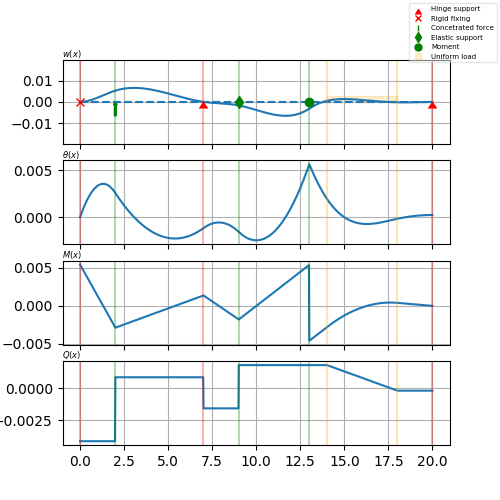
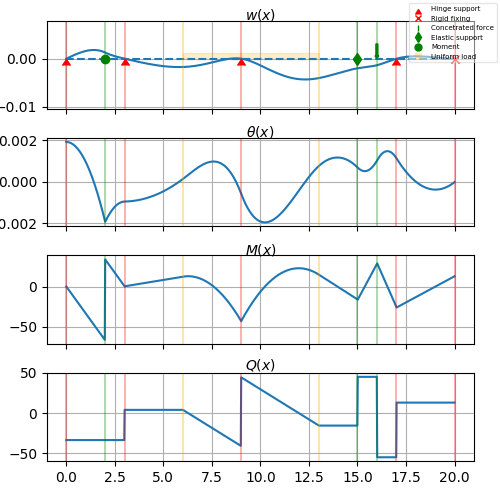
fix example, fix moments, fix graphics

Changed region(s): [[0.0, 0.0, 0.96, 0.99], [0.42, 0.03, 0.45, 0.06], [0.3, 0.03, 0.33, 0.06]]

diff --git a/scripts/graphics.py b/scripts/graphics.py
@@ -46,6 +46,7 @@ def show(balk_size, segment_length, E, J, terms, output_dir):
             open(os.path.join(output_dir, "out3.txt"), "r") as f3, \
             open(os.path.join(output_dir, "out4.txt"), "r") as f4:
         fig, axe = plt.subplots(4, 1, sharex=True, figsize=(5, 5))
+        fig.tight_layout()
         y = []
         for num in f1:
             y.append(float(num))
@@ -55,28 +56,28 @@ def show(balk_size, segment_length, E, J, terms, output_dir):
         axe[0].plot(np.linspace(0, balk_size, len(y)),
                     np.zeros(shape=len(y)), color='C0', linestyle="--")
         make_markers(axe[0], terms, y, balk_size)
-        axe[0].set_title(r"$w(x)$", size=6, loc="left", pad=2)
+        axe[0].set_title(r"$w(x)$", size=10, loc="center", pad=1)
         axe[0].grid()
 
         y = []
         for num in f2:
             y.append(float(num))
         axe[1].plot(np.linspace(0, balk_size, len(y)), np.array(y))
-        axe[1].set_title(r"$\theta(x)$", size=6, loc="left", pad=2)
+        axe[1].set_title(r"$\theta(x)$", size=10, loc="center", pad=1)
         axe[1].grid()
 
         y = []
         for num in f3:
             y.append(float(num))
         axe[2].plot(np.linspace(0, balk_size, len(y)), np.array(y))
-        axe[2].set_title(r"$M(x)$", size=6, loc="left", pad=2)
+        axe[2].set_title(r"$M(x)$", size=10, loc="center", pad=1)
         axe[2].grid()
 
         y = []
         for num in f4:
             y.append(float(num))
         axe[3].plot(np.linspace(0, balk_size, len(y)), np.array(y))
-        axe[3].set_title(r"$Q(x)$", size=6, loc="left", pad=2)
+        axe[3].set_title(r"$Q(x)$", size=10, loc="center", pad=1)
         axe[3].grid()
 
         make_vertical_lines(axe, terms, balk_size)

diff --git a/src/balk.cpp b/src/balk.cpp
@@ -133,7 +133,11 @@ void Balk::save_result(const std::string &folder_name, size_t num_of_points)
                     res += el->calculate(i * balk_size * segment_length / num_of_points, num) * x[ind++];
                 }
             }
-            file << res / (E * J) << std::endl;
+            if (num <= 1) 
+            {
+                res /= (E * J);
+            }
+            file << res << std::endl;
         }
         file.close();
     }
